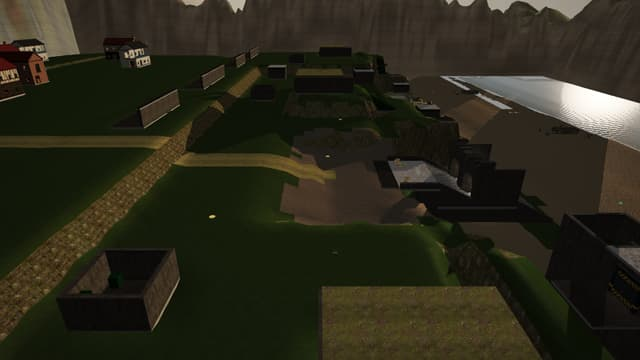
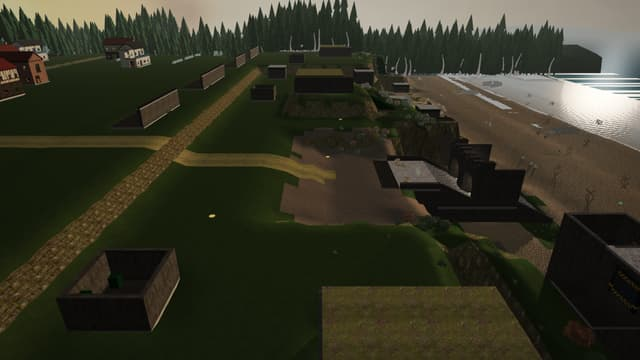
Iron Coast part 2: card picture, HANDOFF, CHANGELOG, manifest progress and decisions (terrain grid finding, plants, balance and stuck numbers)
Claude-Session: https://claude.ai/code/session_01PfNGaHafsFeFAcWZgUEzoB

diff --git a/HANDOFF.md b/HANDOFF.md
@@ -28,36 +28,38 @@ The workflow is unchanged (CLAUDE.md):
    - **Next:** when that run is green, fast-forward main to 318023ed.
    - **Root cause:** every hit test left teammates out before `damage()` read the rule.
    - **Fix:** `Match.canHurt`. Unit test `shared/test/friendlyFire.test.ts`; e2e `friendlyFireChecks` in `teams`.
-2. **Iron Coast** part 1 (`wip/iron-coast`; landing on main as part 1: see the line below).
-   - **Part 1 is done:** the greybox map with Breakthrough and TDM, all built in MapMaker and exported (terrain 380 x
-     320 m, 13 set pieces, 7 routes, the sea, 30 pickups, 3 sectors with 6 spawn groups of 16, crest trenches, ruins,
-     walls, 16 village houses, ground paint). validate-map **0 issues**: the cut-off spawn `spawn_jclhkikyqj` stood
-     in the ruins tile at (56, 16); selected from the issues list and moved to (66, 12, 18) in the inspector.
-   - **Card picture:** `packages/client/public/maps/shots/iron_coast.jpg`.
-   - **A Breakthrough fix it found:** a sector that fell mid-tick kept the old sector's defender plan, so a beach
-     gunner read past the guns' sector's empty gun list (goal with no position; bot-report crashed).
-     `BreakthroughMode.plan` replans when the sector changes; unit test in `breakthrough.test.ts`.
-   - **Bot runs** (after main's Phase C; seeds 1-3, 1200 s): 16 v 16 broke through 2 of 3 (A 42-51 s, B 154-211 s,
-     C 268-298 s); 24 v 24 broke through 1 of 3 (A 39-60 s, B 148-182 s, C 413 s; the other two held at C with the
-     attack out of reinforcements). The beach falls too fast; C decides it. Stuck hot spots: route 1's foot on the
-     west promontory (-152, -48) and route 5's foot under B3 (44, -40).
-   - **Perf** (`pnpm bench`, Breakthrough, loaded 4-core box): 48 bots 5.86 ms avg tick (p95 16.8), 64 bots 6.15 ms
-     (p95 16.2).
-   - **Next:** the two stair feet (landing slab or wider cut, in MapMaker), then the beach's balance (owner's call:
-     zone time, forward posts or cover); then **part 2, the visual pass** (hedgehogs, tank traps, craters, sandbags,
-     haze/mist, the burning wrecks: the prop is saved unfinished on `wip/iron-coast-wreck` and needs its palette atlas
-     picture and content:check).
-   - **Known gaps:** haze and mist are 0 in the map; the casemates sit on 4 m levels (B2 12 m, B3 16 m); the terrain
-     can't overhang, so the cave and tunnel are pieces in a cut cove. Decisions:
-     `docs/map-briefs/iron_coast/DECISIONS_AND_DEVIATIONS.md`; the full list and the MapMaker driver tricks:
-     `docs/map-briefs/iron_coast/MAP_IMPLEMENTATION_MANIFEST.md`, "Progress".
-   - **The brief's essentials:**
-     - MapMaker only: drive the real editor with Playwright against `vite preview`, a window at least 1280 px wide,
-       click palette cards by mouse position, point the view at the sky while editing through the inspector;
-     - follow `docs/map-briefs/MAP_21_reference_annotated.jpg`, not a symmetrical plan;
-     - 24 v 24 by default, playable to 32 v 32;
-     - the Military weapon set;
-     - golden hour; no flashing.
+2. **Iron Coast** part 2 (`wip/iron-coast-part2`, 2026-11-08; part 1 landed at 5edb4296). Done in MapMaker, validate-map
+   **0 issues**, card picture recaptured. Details: `docs/map-briefs/iron_coast/DECISIONS_AND_DEVIATIONS.md`, "Part 2",
+   and the manifest's "Progress, part 2".
+   - **Terrain** ("very unnatural and jagged"): most of it was the border (ragged 30-60 m "Cliffs & mountains" on all
+     four sides, in the sea too): now Shoreline & sea south, Forest wall elsewhere. The cliff's foot is cleaned (spikes
+     and pits gone) with a scree apron, shingle band and stone faces; inland terrace banks softened; 12 craters.
+   - **The grid** is part of it: the cliffs must stay over 50° to keep the 7 routes, and on 2.5 m cells that means one-
+     or two-cell steps; every smoothing tried (Smooth all, contour smoothing, a rounded crest lip) opened about 30 new
+     ways up (climb flood). MapMaker caps terrains at 161 vertices a side, so no finer grid; **owner's call**: raise the
+     cap to 321 (1.25 m) with a Terrain → Change grid resample (4× terrain triangles).
+   - **Plants**: foliage layer (crest Overgrown, bluffs and village Lush, none on sand/shingle), 114 bushes (109 our
+     Broadleaf Shrub, which conceals), 24 trees, 32 hedges in hedgerows.
+   - **Beach**: 43 hedgehogs, 10 Belgian gates (new kit prop `prop.belgian_gate`), 19 tank traps, 2 wrecks, 2 burning
+     wrecks (`prop.landing_craft_wreck_burning` finished: surfaces, palette picture, provenance); haze 0.4, mist 0.2.
+   - **Bot runs** (Breakthrough, seeds 1-3, 1200 s; baseline re-run on main d3ed2a0 the same day). A / B / C fell at (s):
+     | | 16 v 16 | 24 v 24 |
+     |---|---|---|
+     | main (before) | A 49/42/51, B 211/154/160, C –/298/268; 2 of 3 broke through | A 60/40/39, B 178/201/148, C –/457/–; 1 of 3 |
+     | + sandbags, stair cheeks, terrain, props | A 60/40/70, B 215/118/203, C 390/275/294; 3 of 3 | A 70/42/64, B 178/155/170, C 429/355/286; 3 of 3 |
+     | + half the beach defenders spawn on the cliff top | A 41/36/56, B 171/122/172, C 381/255/316; 3 of 3 | A 79/67/58, B 201/216/172, C 405/–/251; 2 of 3 |
+     | + MG nest per strongpoint (final) | A 51/38/52, B 156/160/174, C 239/244/301; 3 of 3 | A 81/57/64, B 169/182/191, C 415/423/318; 3 of 3 |
+     The beach holds longer at 24 v 24 (57-81 s against 39-60), not at 16 v 16 (38-52 against 42-51); the attack now
+     breaks through every time (the unstuck stairs help it more than the posts help the defence). **Owner's call**:
+     more zone time on A1/A2, or accept.
+   - **Stuck** (stair cheeks: rock Sky Blocks filling the wedges beside the flights): bot-report `stuckAt` near route 1
+     (x -160..-144, z -62..-38) 624/4/0 and 42/35/8 before, 2/0/0 and 7/0/12 after; near route 5 (x 26..56, z -46..-32)
+     549/0/6 and 158/12/16 before, 0/0/5 and 0/5/0 after. Stuck recoveries a match: 16 v 16 1405/111/95 → 82/75/109,
+     24 v 24 515/336/284 → 189/297/139. New hot spot: route 7's head (156, 12-13, -36), 102 in one 24 v 24 match.
+   - **Perf** (`pnpm bench`, Breakthrough, 4 shared cores at load 21-24, main's map benched alongside): 48 bots 8.76 ms
+     avg tick (CPU 4.79; main 7.65 / 4.20), 64 bots 9.04 ms (CPU 5.35; main 9.54 / 5.07). Plants are drawn only (the
+     server doesn't see them); not measured on a GPU.
+   - **Next**: the owner's two calls above; playtest the beach; route 7's head hot spot.
 3. **Bot AI Phase C follow-up, part 1 landed** (`wip/bots-c2`; green on `check/bots-c2`, run 42424732057; main
    fast-forwarded to it). BOT_AI_PLAN.md has the tables under "Phase C follow-up".
    - **Landed:**

diff --git a/docs/map-briefs/iron_coast/DECISIONS_AND_DEVIATIONS.md b/docs/map-briefs/iron_coast/DECISIONS_AND_DEVIATIONS.md
@@ -24,3 +24,58 @@
   sculpted into it, the ground flattened over each footprint and one vertex round it, so the cliff rises outside the
   piece and never through it. The cave (route 6) is the Cliff Casemate in a cove with the Cliff Stair Tower behind it;
   the tower's top storey stands over the crest as the crest bunker.
+
+## Part 2 (2026-11-08): terrain, plants, the beach's balance, the visual pass
+All in MapMaker, driven like a person (the same scratch Playwright driver), Export to `maps/iron_coast.json`.
+
+- **Where the "unnatural and jagged" look came from** (owner, 2026-11-07). Three things, measured on the map:
+  1. The **border**: "Cliffs & mountains" on all four sides, ragged peaks 30-60 m tall, standing in the sea south of
+     the beach too. The most jagged thing in every picture. Now per side: **Shoreline & sea** south, **Forest wall**
+     north, east and west (Sky tab, Border, Per side).
+  2. **The heights:** part 1 levelled the cliff top and the crest to exact 4 m levels (5,700 vertices at exactly 16.15
+     m, 1,500 at 12.15 m) with the steps between them one grid cell (2.5 m) wide, and the cuts left one-cell spikes and
+     pits along the cliff's foot (a 6.4 m spike between 1.5 and 0.6 m ground, ditches at -0.1 m in front of 1 m beach).
+     On a 2.5 m grid a step one cell wide draws as a hard edge that zigzags wherever the cliff runs across the grid.
+  3. **The paint**: each ground material is its own mesh of whole 2.5 m cells, so material borders are square steps
+     (grass squares on the cliff, sand squares at its foot).
+- **The grid** (the owner's question: is it the 2.5 m grid?). Partly. The cliff must stay steeper than the 50° players
+  and bots can walk up, or the seven routes stop meaning anything; on a 2.5 m grid a 12 m cliff is only that steep over
+  one or two cells, and anything that rounds it opens it. Measured (a flood over the terrain at 48°, beach to crest,
+  pieces left out): MapMaker's **Smooth all** (Light, ground under every built piece kept) opens about 30 new places
+  to climb the cliff, a smoothing that follows the cliff's contours instead 33, a first brush pass with a 3-5 m scree
+  apron 30. **MapMaker can't go finer here**: a terrain is at most 161 vertices a side, so 380 m needs 2.5 m.
+  *Proposed, not built (owner's call)*: raise the cap to 321 (1.25 m cells) and add **Terrain → Change grid** (resample
+  the heights, paint and plants to a finer or coarser grid, one undo step). A 12 m cliff could then be a 60-70° face
+  over four to eight cells with a rounded lip and a scree foot, still unclimbable; the cost is four times the terrain's
+  triangles (collision, navmesh, drawing) and a map file about 400 KB larger.
+- **So the brushes worked inside that limit** (every pass checked with the same climb flood; nothing new opened):
+  the cliff's foot levelled to the beach's 1 m 1.5-9 m in front of the face (Flatten to 1 m: the spikes and pits
+  gone), a low scree apron raised against the face (Raise, varied), the inland terrace banks behind the crest (12 m to
+  16 m, one cell apart) softened into grassy banks (Smooth); then **Paint steep slopes as stone**, a ragged band of
+  gravel shingle along the foot, and twelve shell craters (Lower, their floors dark earth). Rounding the crest's lip
+  was tried and undone: it opened eight places (x -25, -20 and 60-85).
+- **Plants** (the brief was silent; part 1 was a greybox): the foliage layer painted Overgrown in a band 3-12 m behind
+  the crest, Lush on the bluffs' faces (stone grows pebbles and a few shrubs) and round the village and the fort,
+  Grassy elsewhere on grass; **none on the sand or the shingle** (Bare). Props, all with the scatter brush or the
+  Props palette: 114 bushes along the crest and at the routes' heads (first the Bushes set; its Kenney bushes were
+  teal and toy-like, so the patches were cleared and planted again with our Broadleaf Shrub, `?env=1`'s procedural
+  shrubs: 109 of them, 5 Kenney left; walk-through, they conceal, bots treat them as cover), 24 trees on the flanks and behind the village (Leafy woods), 32 hedges in four hedgerows on the
+  flanks' fields, all out of the beach's and the fields' main sightlines.
+- **The beach**: 43 Czech hedgehogs in three ragged bands, 10 Belgian gates in the surf, 19 tank traps in short rows by
+  the cliff's foot, two cold wrecks and two **burning wrecks** (the prop finished: smoke column `smoke.wreck`, a steady
+  campfire flame; nothing flashes, Reduce flashing or not), twelve craters. The **Belgian Gate** (Element C) was missing
+  from the palette, so it is a new kit prop (`prop.belgian_gate`, built in code like the hedgehog: collision along its
+  members, metal surface).
+- **Stair feet (routes 1 and 5)**: both stairs climb out of a cut in flights, and the ground beside the first flight
+  ramps up under the next flight's floor slab: a wedge bots walked into and stuck. Each side of the flight now has a
+  solid concrete cheek (Sky Blocks): route 1 two 1.9 × 8 × 10.4 m cheeks beside the second flight and the top of the
+  first (x -156..-148, z -54.5..-44), route 5 two 2.9 × 4 × 1.9 m cheeks where the first flight meets the second (x
+  44..47). The cut is no wider; the wedges are gone.
+- **Beach balance, option 1a**: Breakthrough's defenders post a step behind each sandbag wall within 60 m of a
+  sector's objectives, nearest first, before the crest's trenches 50 m back. Ten sandbag positions (six walls, four
+  stacks) in front of A1 and A2 put the defenders' trench share at the strongpoints. That alone left A falling in 40-70
+  s (the stairs fixed at the same time made the attack stronger: six breakthroughs in six), so half the beach sector's
+  defender spawns moved from the crest's back (z 10) to the cliff top over the zones, and a machine-gun nest
+  (`turret_mg`) went behind each strongpoint's sandbags (the defenders' gun crews, a quarter of them, post there
+  first). The numbers: HANDOFF's Iron Coast entry.
+- **Haze 0.4, mist 0.2** (golden hour, the sunset sky kept).

diff --git a/docs/map-briefs/iron_coast/MAP_IMPLEMENTATION_MANIFEST.md b/docs/map-briefs/iron_coast/MAP_IMPLEMENTATION_MANIFEST.md
@@ -5,7 +5,7 @@
 | Map | `maps/iron_coast.json` (id `iron_coast`, "Iron Coast") |
 | Source | The owner's reference `docs/map-briefs/shingle_point_reference.jpg`, marked up as `MAP_21_reference_annotated.jpg`; the approved layout `docs/map-briefs/MAP_21_Iron_Coast.md` (owner, 2026-11-07: "Yes follow the image, call it Iron Coast") |
 | Author / date | Tile Trigger, built in MapMaker 2026-11-07 |
-| Status | Part 1: the playable greybox with Breakthrough (this file's tables); part 2: the visual pass |
+| Status | Part 1: the playable greybox with Breakthrough (this file's tables); part 2 (2026-11-08): terrain, plants, the beach's balance and dressing, the stair feet |
 | Players | 24 v 24 (Map's pick, `teamSetup [24, 24]`), 16-64 (`recommendedPlayers`); plays to 32 v 32 and 48 v 48 on dedicated hosts |
 | Modes | Breakthrough (the map's mode), Team Deathmatch (also offered); Elimination with TDM; Zombies anywhere |
 | Weapon set | Military |
@@ -73,16 +73,44 @@ pillboxes, the B/C compound walls (z 36–44) and 16 village houses (last export
 - Performance, `pnpm bench 48|64 60 maps/iron_coast.json --mode=core.breakthrough` (headless server tick, load 17 on 4
   shared cores): 48 bots avg 5.86 ms (CPU 4.33, p95 16.8), 64 bots avg 6.15 ms (CPU 4.94, p95 16.2); budget 16.67.
 
+## Progress, part 2 (2026-11-08: the owner's decisions of 2026-11-07/08)
+All through MapMaker's UI (the scratch driver against `vite preview`; Export), `validate-map` **0 issues** after every
+export. The reasons and the measurements are in `DECISIONS_AND_DEVIATIONS.md`, "Part 2".
+- **Terrain**: the border per side (Shoreline & sea south, Forest wall north, east and west: the "Cliffs & mountains"
+  peaks were most of the jagged look); the cliff's foot levelled to 1 m 1.5-9 m in front of the face with a scree
+  apron against it; the inland 12-16 m terrace banks softened (Smooth); Paint steep slopes as stone; a gravel shingle
+  band along the foot; 12 shell craters. The cliff faces keep their steepness: every pass was checked with a climb
+  flood (48°, beach to crest) and none opened a new way up. **Grid**: not changed (MapMaker caps a terrain at 161
+  vertices a side, so 380 m needs 2.5 m); the proposal is in DECISIONS.
+- **Plants**: foliage layer Overgrown behind the crest, Lush on the bluffs and round the village, Grassy on the rest of
+  the grass, Bare on sand and shingle; 114 bushes (109 Broadleaf Shrub, which conceal; 5 Kenney), 24 trees, 32 hedges
+  in four hedgerows.
+- **Beach**: 43 Czech hedgehogs, 10 Belgian gates (new kit prop), 19 tank traps, 2 wrecks, 2 burning wrecks.
+- **Balance (option 1a)**: 10 sandbag positions and a machine-gun nest (`turret_mg`) behind each of A1 and A2; 8 of the
+  16 beach-sector defender spawns moved from z 10 to the cliff top over A1 (x -118..-102, z -32..-20) and A2 (x
+  80..104, z -16..-8).
+- **Stair feet**: rock cheeks (Sky Blocks, rock) beside the flights of route 1 (x -156..-148, z -54.5..-44, 0-8 m) and
+  route 5 (x 44..47, z -44..-36, 0-4 m).
+- **Sky**: haze 0.4, mist 0.2 (sunset kept).
+- **Bots and performance**: the tables in HANDOFF's Iron Coast entry.
+
+**MapMaker driver tricks learnt in part 2:**
+- Use graphics **low** in the driven MapMaker (localStorage `tiletrigger.graphics`) and ONE browser: with three
+  drivers by mistake and high graphics, a stroke point took 8 s; alone on low, about 3-5 s. During a stroke MapMaker
+  draws about one frame a second on this map, and the brushes work per frame by time: Raise at 5 % barely moves the
+  ground, Smooth at 30 % is a full 3 × 3 average each frame. Hold a point about two frames.
+- Things above the level being edited are hidden and can't be clicked: PgUp to their level first (spawns on the crest
+  are level 3). Props without collision (bushes) can't be clicked at all; to swap them, Alt-click the patch with the
+  scatter brush (clears that kind of plant) and plant again (`?env=1` offers the procedural shrubs).
+- Palette cards in a collapsed group (`.ed-group` without `open`) are hidden: click the group's header first. The right
+  panel is folded away under 1280 px: its buttons (Settle all props on ground, Replace all) can be pressed in the page.
+- A prop placed where the level plane (y 0) is above the ground (the surf) stands on the plane: **Settle all props on
+  ground** (Map properties) beds them all.
+
 **Left (next steps, in order):**
-1. The stair feet bots get stuck at (route 1 west, route 5 under B3): a landing slab or a wider cut at each foot, in
-   MapMaker; then bot-report again (stuck per match should fall well under 300 at 24 v 24).
-2. The beach: A falls in under a minute. Candidates (owner's call): A1/A2 zone time up (MapMaker, the objective's
-   seconds), the cliff-foot strongpoints' defenders posted further forward, or more cover for the defenders there.
-3. Part 2, the visual pass: hedgehogs, tank traps, logs, landing craft in the surf, craters, sandbags (props from the
-   Props tab, Facing in the inspector); haze/mist (Sky tab; the range fields didn't take values typed 0.45/0.25: try
-   45/25); two burning wrecks: the prop `landing_craft_wreck_burning` (PropFlame `smoke`, propFlames.ts asks
-   `smoke.wreck`) is saved unfinished on `wip/iron-coast-wreck`; it still needs the palette atlas
-   (build-palette-atlas.mjs), `content:build` and `content:check`.
+1. The owner's calls: the finer terrain grid (DECISIONS, "Part 2"); whether the beach should hold longer still (more
+   zone time, or more posts).
+2. Playtest the beach and the stairs with people.
 
 **MapMaker driver tricks (the scratch driver won't survive):**
 - Keep ONE MapMaker open (vite preview, not dev) and feed it command files; reloading a big map costs minutes. Import

diff --git a/CHANGELOG.md b/CHANGELOG.md
@@ -20,6 +20,22 @@ the wheel you fire the cannon yourself; it turns on the spot. Bots drive tanks, 
 shells for targets worth one, refill at ammo pickups and get out under a quarter of its health. All in the tank's
 vehicle data (Workbench).
 
+**Iron Coast, part 2: the coast looks like a coast** (owner, 2026-11-07/08; all in MapMaker)
+- **Terrain**: the jagged mountains round the map are gone (the sea's shoreline to the south, woods round the other
+  sides); the cliff's foot is cleaned of the spikes and pits the cuts left, with a scree apron, a shingle band and
+  stone on the steep faces; the crest's inland terrace banks are softened; shell craters on the beach. The cliff stays
+  as steep as before, so the seven ways up are still the only ones.
+- **Plants**: long grass and scrub along the crest, scrub on the bluffs, lush ground round the village, none on the
+  sand; 114 bushes along the crest and the routes' heads (cover that hides you, from bots too), 24 trees and four
+  hedgerows on the flanks, out of the main sightlines.
+- **The beach**: hedgehogs in ragged bands, Belgian gates in the surf (a new piece in MapMaker's Military props), tank
+  traps by the cliff, two cold wrecks and two burning wrecks with smoke (the new **Burning Landing Craft Wreck**; it
+  never flashes); golden-hour haze and a low sea mist.
+- **Balance**: the beach's defenders are posted forward: sandbag positions in front of A1 and A2, and half the beach
+  sector's defenders spawn on the cliff top over them. In bot matches at 24 v 24 (the Map's pick) the beach now holds 57-81 s (was 39-60); at 16 v 16 it still falls in 38-52 s (was 42-51).
+- **Stairs**: bots no longer jam on the far-west steps (route 1) and the wooden stair under B3 (route 5): rock cheeks
+  close the gaps beside the flights where they got stuck. Stuck recoveries per match fell from 95-1405 to 75-297.
+
 **Iron Coast (MAP 21), part 1: the beach assault and Breakthrough's showcase** (MapMaker only, from the owner's reference)
 - **A new map, Iron Coast** (`iron_coast`): 380 × 320 m of coast for 24-32 a side (24 v 24 is the Map's pick; 16 to 64
   players). Landing craft beached on the sand, an irregular cliff (8 m at the grand stair's
